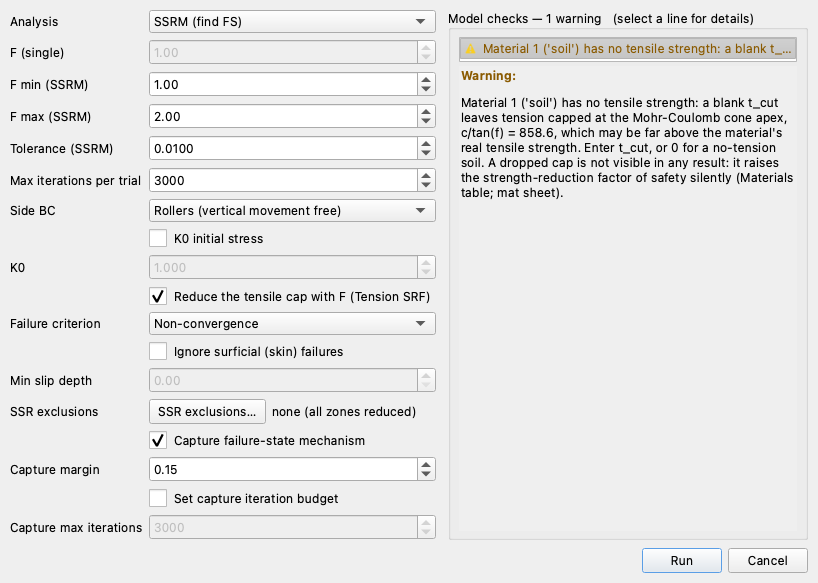
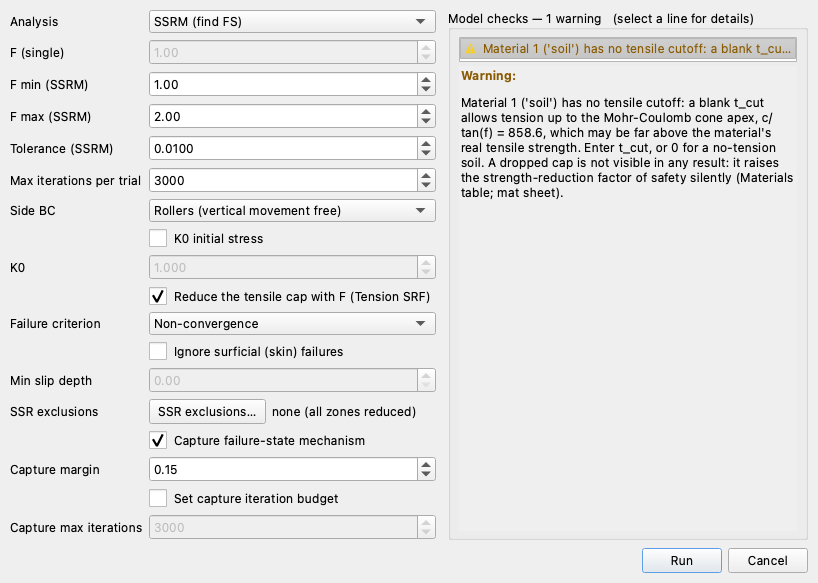
check(preflight): a blank t_cut warns about the cutoff it lacks, not the strength
'Has no tensile strength' claimed the opposite of the condition: an
empty t_cut ALLOWS tension, up to the Mohr-Coulomb apex or without
limit at phi = 0, and no-tension isn't true of every soil anyway. The
headline now names the model state — no tensile cutoff — and both
Run FEM screenshots re-grab with it. The steady-reads-series-at-t0
rule also gains the mutation test the coverage check was flagging.

Claude-Session: https://claude.ai/code/session_01XjjT2aBxw8gY7EFdpoUcpj

Changed region(s): [[0.5501, 0.1544, 0.9474, 0.247], [0.8252, 0.0617, 0.978, 0.0926]]

diff --git a/run_tests.py b/run_tests.py
@@ -3760,6 +3760,14 @@ PREFLIGHT_RULE_SPECS = [
              specified_heads=[dict(b, coords=b['coords'][:1])
                               for b in sd['seepage_bc']['specified_heads']])),
          expect='fewer than two points'),
+    dict(rule='seep.steady_reads_series_at_t0', base=PREFLIGHT_BASE_SEEP,
+         mode='dict', analysis='seep',
+         mutation=lambda sd: _pf_set(sd, seepage_bc=dict(
+             sd['seepage_bc'],
+             specified_heads=[dict(sd['seepage_bc']['specified_heads'][0],
+                                   head='t1')]
+             + sd['seepage_bc']['specified_heads'][1:])),
+         expect='read at their t = 0 values'),
 
     # --- finite element elastic properties and the tensile cap -------------
     dict(rule='mat.nu_unusable', base=PREFLIGHT_BASE_FEM, mode='excel',
@@ -3770,7 +3778,7 @@ PREFLIGHT_RULE_SPECS = [
          analysis='ssrm',
          mutation=lambda sd: _pf_mats(sd, t_cut=None),
          control=lambda sd: _pf_mats(sd, t_cut=50.0),
-         expect='has no tensile strength'),
+         expect='has no tensile cutoff'),
     dict(rule='main.tension_srf_unset', base=PREFLIGHT_BASE_FEM, mode='excel',
          analysis='ssrm',
          mutation=lambda sd: _pf_mats(_pf_set(sd, tension_srf=None), t_cut=50.0),

diff --git a/xslope/preflight.py b/xslope/preflight.py
@@ -2918,14 +2918,14 @@ def _mat_tensile_cap_missing(ctx):
         phi = _num(m.get("phi")) or 0.0
         c = _num(m.get("c")) or 0.0
         if phi <= 0:
-            what = ("nowhere at all -- with f = 0 the Mohr-Coulomb cone has no apex, "
+            what = ("without limit -- with f = 0 the Mohr-Coulomb cone has no apex, "
                     "so nothing bounds the tensile stress the material can carry")
         else:
             apex = c / math.tan(math.radians(phi)) if phi < 90 else 0.0
-            what = (f"at the Mohr-Coulomb cone apex, c/tan(f) = {apex:.4g}, which "
+            what = (f"up to the Mohr-Coulomb cone apex, c/tan(f) = {apex:.4g}, which "
                     f"may be far above the material's real tensile strength")
-        yield (f"{ctx.mat_label(i)} has no tensile strength: a blank t_cut leaves "
-               f"tension capped {what}. Enter t_cut, or 0 for a no-tension soil. A "
+        yield (f"{ctx.mat_label(i)} has no tensile cutoff: a blank t_cut allows "
+               f"tension {what}. Enter t_cut, or 0 for a no-tension soil. A "
                f"dropped cap is not visible in any result: it raises the "
                f"strength-reduction factor of safety silently {_AT_MAT}.")
 

diff --git a/studio/preflight_panel.py b/studio/preflight_panel.py
@@ -160,7 +160,7 @@ _SENTENCE = re.compile(r"(?<=[.!?])\s+(?=[A-Z(\"'])")
 
 #: What identifies one member once the text its group shares has been taken off the
 #: front: a number or a name, with the parenthesized name that may follow it --
-#: ``1 ('Core')`` out of ``Material 1 ('Core') has no tensile strength: ...``.
+#: ``1 ('Core')`` out of ``Material 1 ('Core') has no tensile cutoff: ...``.
 _MEMBER = re.compile(r"[^\s,;:]+(?:\s*\([^)]*\))?")
 
 _SUMMARIES = {}
@@ -198,7 +198,7 @@ def _members(messages):
     """``(noun, [member, ...])`` for a group's messages.
 
     A rule that fires per material opens every message the same way and then names
-    which one: ``Material 1 ('Sand') has no tensile strength: ...``. So the shared
+    which one: ``Material 1 ('Sand') has no tensile cutoff: ...``. So the shared
     opening is what the members have in common, the last word of it is what they ARE
     (``Material`` -> ``4 materials``, lowercased because it is being counted mid-line
     rather than opening a sentence), and each member is the identifier that follows
